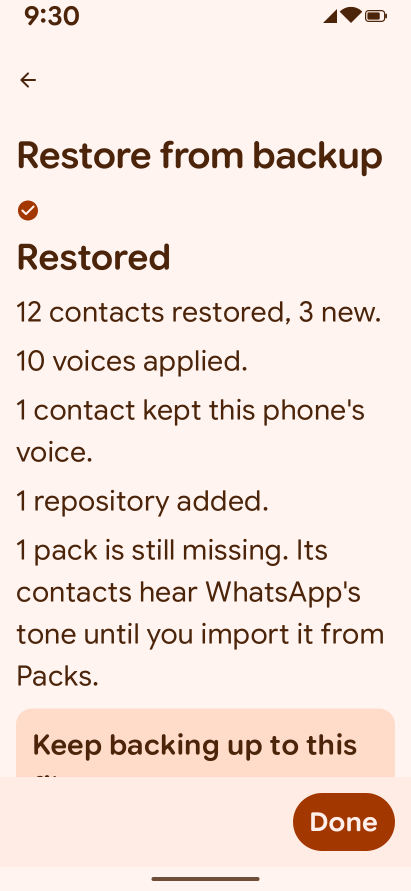
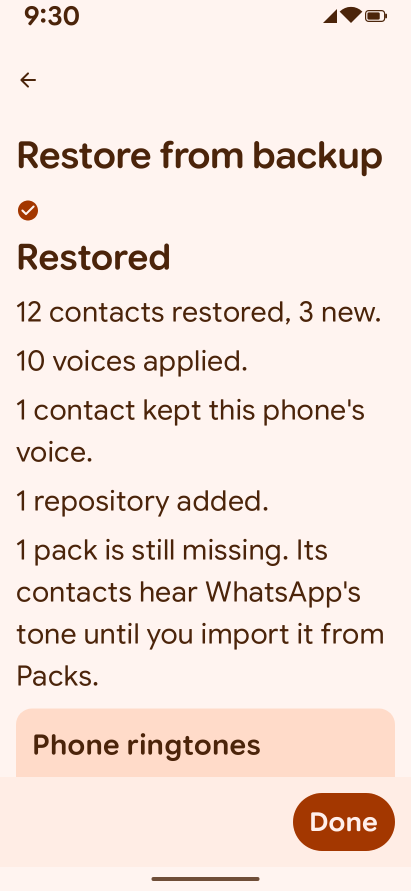
feat(ringtone): ringtone picker screen and phone ringtones in backups
Ringtone picker (#53): album covers of every character with ringtones, a
spinning-record preview per cover and per version, rule chips, mixing a
ringtone character with another message character, saved with the assign
feedback. The contact detail card now shows what rings and opens it.

Backups (#198): phone ringtones are exported (followsVoice, device-local
undo record), restored with the voice rule, matched to this phone's Android
contacts by number, lookup key, then name, and written once phone ringtones
are on. Schema, fixtures, ADR 0057, English and Spanish strings, goldens.

Changed region(s): [[0.0876, 0.8182, 0.8759, 0.8788]]

diff --git a/android/app/src/main/kotlin/app/mauri/cucuto/ui/ringtone/RingtonePickerScreen.kt b/android/app/src/main/kotlin/app/mauri/cucuto/ui/ringtone/RingtonePickerScreen.kt
@@ -85,6 +85,7 @@ import app.mauri.cucuto.ui.feedback.LocalFeedback
 import app.mauri.cucuto.ui.theme.CharacterTheme
 import app.mauri.cucuto.ui.theme.CucutoTheme
 import kotlinx.coroutines.delay
+import java.io.File
 
 /** What the ringtone picker can ask for; [RingtonePickerScreen] wires it to its view model. */
 data class RingtonePickerActions(
@@ -603,7 +604,7 @@ private fun RingtonePickerPreview() {
     }
 }
 
-/** Made-up characters and chat for previews and tests (no files: previews cannot play). */
+/** Made-up characters and chat for previews and tests (the files do not exist: a preview just fails quietly). */
 internal fun previewRingtonePickerState(): RingtonePickerState {
     fun character(
         packId: String,
@@ -615,17 +616,20 @@ internal fun previewRingtonePickerState(): RingtonePickerState {
         RingtoneCharacterItem(
             character("app.mauri.demo.critters", "frog", "Bleep the frog", 0xFF4CAF50),
             listOf(
-                RingtoneVariantItem(RingtoneVariant("frog/ringtones/day.ogg", "Pond song (day)", listOf("day")), null),
+                RingtoneVariantItem(
+                    RingtoneVariant("frog/ringtones/day.ogg", "Pond song (day)", listOf("day")),
+                    File("day.ogg"),
+                ),
                 RingtoneVariantItem(
                     RingtoneVariant("frog/ringtones/night.ogg", "Pond song (night)", listOf("night")),
-                    null,
+                    File("night.ogg"),
                 ),
             ),
         )
     val kettle =
         RingtoneCharacterItem(
             character("app.mauri.demo.kitchen", "kettle", "Tootle the kettle", 0xFFE57373),
-            listOf(RingtoneVariantItem(RingtoneVariant("kettle/ringtones/reel.ogg", "Kettle reel"), null)),
+            listOf(RingtoneVariantItem(RingtoneVariant("kettle/ringtones/reel.ogg", "Kettle reel"), File("reel.ogg"))),
         )
     val key = ChatKey("com.whatsapp", "100000000000003@lid")
     return RingtonePickerState(

diff --git a/android/app/src/main/kotlin/app/mauri/cucuto/ui/ringtone/RecordCover.kt b/android/app/src/main/kotlin/app/mauri/cucuto/ui/ringtone/RecordCover.kt
@@ -70,6 +70,8 @@ fun RecordCover(
         }
     }
     val recordSize = size * RECORD_SCALE
+    // In its sleeve the cover sits in the middle; as the record comes out, the sleeve moves left to make room.
+    val sleeveX = size * ((WIDTH_SCALE - 1f) / 2f) * (1f - pull)
     Box(modifier.size(width = size * WIDTH_SCALE, height = size).clearAndSetSemantics {}) {
         Record(
             character = character,
@@ -77,7 +79,7 @@ fun RecordCover(
             modifier =
                 Modifier
                     .align(Alignment.CenterStart)
-                    .offset(x = (size - recordSize) / 2 + (size * PULL_SCALE) * pull)
+                    .offset(x = sleeveX + (size - recordSize) / 2 + (size * PULL_SCALE) * pull)
                     .size(recordSize)
                     .graphicsLayer { rotationZ = angle.value },
         )
@@ -85,7 +87,7 @@ fun RecordCover(
             shape = RoundedCornerShape(size * CORNER_SCALE),
             color = sleeveColor,
             shadowElevation = 2.dp,
-            modifier = Modifier.align(Alignment.CenterStart).size(size),
+            modifier = Modifier.align(Alignment.CenterStart).offset(x = sleeveX).size(size),
         ) {
             CharacterSprite(
                 character = character,

diff --git a/android/app/src/testDebug/kotlin/app/mauri/cucuto/screenshots/RingtonePickerScreenshotTest.kt b/android/app/src/testDebug/kotlin/app/mauri/cucuto/screenshots/RingtonePickerScreenshotTest.kt
@@ -13,8 +13,9 @@ import org.junit.Test
 import java.io.File
 
 /**
- * The ringtone picker (#53) for Iris, whose voice is Bleep the frog: the frog's pond song rings by day and night, and
- * the kettle's reel is there to mix in. Sprites and ringtone files come from the demo packs.
+ * The ringtone picker (#53) for Iris, whose voice is Bleep the frog (its pond song rings by day and night): the
+ * kettle's reel was just tapped to mix in, so its record is out and "Ring with" saves it. Sprites and ringtone files
+ * come from the demo packs.
  */
 class RingtonePickerScreenshotTest(
     variant: Variant,
@@ -55,6 +56,7 @@ class RingtonePickerScreenshotTest(
                                 RingtonePackItem(kitchen.packId, kitchen.name, listOf(kettle)),
                             ),
                         saved = RingtoneSelection(frog.voice, followsVoice = true, mode = RingtoneMode.TIME),
+                        edited = RingtoneSelection(kettle.voice, followsVoice = false),
                     ),
                 beat = null,
                 actions = RingtonePickerActions(),

diff --git a/docs/decisions/0057-ringtone-picker-and-ringtone-backups.md b/docs/decisions/0057-ringtone-picker-and-ringtone-backups.md
@@ -1,0 +1,140 @@
+# 0057. The ringtone picker, and phone ringtones in backups
+
+- Status: accepted (defaults the owner may override in the `question` issue linked from #53)
+- Date: 2026-10-24
+- Issues: #53 (ringtone picker UI), #198 (back up and restore phone ringtones)
+
+## Context
+
+[ADR 0039](0039-phone-ringtones-on-the-device.md) made phone ringtones work: ring files rendered on the phone, the
+`phone_ringtones` table, the undo record and a "Phone ringtone" card on contact detail with rule chips. It left two
+things out: the picker the brief describes ("a grid or carousel of album covers; tapping one plays it with a
+spinning-record animation, variant chips switch versions") with mixing ("messages from Pikachu, ringtone from K.K.
+Slider"), and backups. The backup schema already had `contacts[].ringtone`, but nothing wrote or restored it.
+
+The owner prefers screens over dialogs ([ADR 0055](0055-screens-over-dialogs.md)). Read: the Material 3
+[chips](https://m3.material.io/components/chips/guidelines) and [lists](https://m3.material.io/components/lists)
+guidelines, `AudioAttributes.USAGE_NOTIFICATION_RINGTONE` (what Android's own ringtone picker plays previews with),
+and `ContactsContract.Contacts.CONTENT_LOOKUP_URI` and `PhoneLookup` for re-matching contacts.
+
+## Decision
+
+### The ringtone picker (#53)
+
+**A screen**, `CucutoDestination.RingtonePicker(chat)`, pushed from the contact detail card. The card no longer holds
+the rule chips. It shows what rings as one row: the album cover, the character, the rule, and whether it is mixed.
+The row opens the picker. Linking, the status, "Use Cucuto's ringtone again", the WhatsApp hint and "Stop using for
+calls" stay on the card. The card also opens the picker when the voice's character has no ringtone, which used to be
+a dead end.
+
+**Layout.** At the top, the chosen character:
+
+- its record and name, and whether it is the messages' character or a mix;
+- every version with a play/stop button and its tags (a radio button picks one under "One version");
+- the rule chips that make sense for its tags (the rules of ADR 0039: the pack's rules, random per call, day and
+  night, by season, one version).
+
+Below it, a grid of album covers, grouped by pack: every installed character that has at least one ringtone. A
+**bottom bar** saves ("Ring with Tootle the kettle"). It reads "Already chosen" and is disabled when nothing changed.
+
+**Game feel**, like the character picker (#132), through the Feedback engine (#112):
+
+- A tap on a cover picks it and plays the version its rule picks now. The record slides out of its sleeve and spins
+  at 45 rpm. A tap on the cover that is playing stops it.
+- Taps play `Feedback.Tap`, and rule and version changes play `SegmentTick`.
+- Saving fires `Feedback.Assign` with the particle burst in the character's colors, then the screen closes after
+  0.9 s. A failure fires `Feedback.Error` and shows a snackbar.
+- The screen takes the selected character's colors (`CharacterTheme`).
+- With animations removed (`LocalReducedMotion`), the record still comes out but does not spin.
+
+**Previews** (`RingtonePreview`) use `MediaPlayer` with ringtone audio attributes, like Android's ringtone picker, so
+they follow the ring volume and the ringer mode. They play the pack's file as it is, stop after 30 s at most (a song
+can last 6 minutes), and stop when the screen stops. The "now" version uses 07:00 to 19:00 for day; the sync uses the
+chosen place (ADR 0037).
+
+**Mixing.** Picking the voice's character stores no character of its own (`packId` null), so the ringtone keeps
+following the voice when the voice changes. That is the brief's "assigning a character assigns both". Any other
+character is stored explicitly: a mix. A contact without a voice can still get a ringtone, if it already exists as a
+contact.
+
+**Rules** keep the current choice when the new character offers it, else the pack's rules. A character with one
+version saves the pack's rule. "Random per call" asks for the phone permission before saving and saves either way,
+as the card did.
+
+### Phone ringtones in backups (#198)
+
+**Schema** (`spec/backup.schema.json`, still `formatVersion` 1; both fields are optional, so older readers ignore
+them):
+
+- `ringtone.followsVoice: true`: the ringtone follows the message character. `packId` and `characterId` still name the
+  voice's character at backup time.
+- `ringtone.undo`: `{ originalRingtone?, writtenUri }`, the Android contact's own ringtone before Cucuto and the file
+  Cucuto wrote last.
+
+The valid fixture gains a contact with both. Two invalid fixtures: a fixed rule without its variant, and an undo
+record without `writtenUri`.
+
+**Export.** One entry per `phone_ringtones` row:
+
+- A row that follows the voice is written with the voice's character and `followsVoice`.
+- A row with neither its own character nor a voice has nothing to ring and is left out.
+- A fixed rule whose variant is unknown becomes the pack's rule, so the backup stays valid.
+- The undo record goes along only while Cucuto's file is on the contact (not changed by the user since).
+- Automatic backups now also watch `phone_ringtones`.
+
+**The undo record in a backup, against #198's "never back up `contact_ringtone_writes`".** The work on #198 also asked
+to keep the original ringtone for undo. It is device-local, so it is used only where it means something: on the same phone after
+a reinstall. There the contact still rings with Cucuto's old file, which no longer counts as Cucuto's own MediaStore
+entry. Without the record, the sync would take that stale file for the "original" and restore it on undo. With it, the
+restore adopts the old record, and the contact gets its real ringtone back later. Everywhere else it is ignored:
+nothing is written unless the contact rings with exactly `writtenUri`, and an existing undo record on this phone is
+never replaced. MediaStore URIs of ring files are never restored as ringtones.
+
+**Restore**, in two steps, because the second needs the contacts permission:
+
+1. `BackupRestorer` (`:core:backup`, inside the restore transaction) writes the rows with the voice rule of ADR 0013:
+   - **applied** when the contact has none on this phone, or the user overwrote the contact (the conflict tick);
+   - **unchanged** when equal;
+   - **kept** otherwise.
+
+   It reports each one, with the old phone's Android contact and the undo record.
+2. `PhoneRingtones.afterRestore` (`:core:ringtone`) finds each Android contact on this phone (`RingtoneRelinker`):
+   1. **phone numbers** first (lookup keys are per device, numbers are not): a current link among the matches is
+      kept; one match wins; several matches are narrowed by the old phone's contact name;
+   2. then the **lookup key**, when it still resolves;
+   3. then the **exact name**, when exactly one contact has it.
+
+   A contact with no match on the new phone is **unlinked**. Contact detail then offers to link it instead of
+   reporting a missing contact, and the ringtone choice stays. When phone ringtones are on, the sync renders the ring
+   files and writes the contacts right away. Without the permission, the list waits in settings (a small JSON list)
+   and finishes when the user turns phone ringtones on, or at the next app start with the permission.
+
+**The restore summary** gets a "Phone ringtones" card:
+
+- how many came back;
+- which contacts are not on this phone (link them from the chat);
+- "Turn on phone ringtones" (the contacts permission, explained first) when they are off;
+- otherwise, how many contacts ring with their character again.
+
+The feature switch itself is not in backups: turning it on needs the permission on the new phone anyway.
+
+## Consequences
+
+- Telecom plays the ring files, as before. No new permission, no new module code, no database migration.
+- `RestoreReport.ringtonesPending` is gone; `ringtones`, `ringtonesApplied` and `ringtonesKept` replace it.
+  `BackupGateway` gains `restorePhoneRingtones` and `enablePhoneRingtones`.
+- Tests:
+  - `RingtonePickerViewModelTest` (selection, mixing, rules, previews, save, failures);
+  - `RingtonePickerContentTest` and the updated `PhoneRingtoneContentTest`;
+  - `RingtoneRelinkerTest` (new phone, same phone, ambiguous and missing contacts, the undo record);
+  - a sync test for an adopted undo record;
+  - `BackupSnapshotRingtoneTest`;
+  - restorer and round-trip cases;
+  - `RestoreViewModelTest` cases.
+- Goldens: `ringtone-picker` (light, dark, large font in English and Spanish) and the large-font restore summary.
+- Defaults the owner may change:
+  - the undo record travels in backups;
+  - picking the voice's character means "follow the voice";
+  - a ringtone set on the new phone is kept unless the contact's voice conflict is overwritten;
+  - previews stop after 30 s;
+  - an unmatched contact is unlinked rather than left with a stale link.

diff --git a/docs/decisions/0039-phone-ringtones-on-the-device.md b/docs/decisions/0039-phone-ringtones-on-the-device.md
@@ -88,7 +88,8 @@ how every change can be undone.
      and that the code is open source at github.com/mauriciabad/cucuto (the owner, #145).
    - `READ_PHONE_STATE` is asked only when the user picks "Random per call".
    - Denial leaves everything as it was and offers Android's app settings.
-8. **UI** (the full picker is #53):
+8. **UI** (the full picker is #53; it landed in [ADR 0057](0057-ringtone-picker-and-ringtone-backups.md), which moved
+   the rule chips from the card into it):
    - A "Phone ringtone" card on contact detail (1:1 chats only). It offers: turn the feature on, link the Android
      contact (suggested by the WhatsApp phone JID's number, else by exact name, or picked with the system contact
      picker), the rule chips that make sense for the character's variant tags, version chips for "One version", the
@@ -97,7 +98,7 @@ how every change can be undone.
    - A switch in Settings.
 9. **Not in this change:**
    - `vibration_uri` per-contact call vibration waits for #143 V2 (whether `system_server` can read our file).
-   - Backup and restore of phone ringtones (#198): the restorer already counts them as pending.
+   - Backup and restore of phone ringtones (#198): the restorer already counts them as pending (done in ADR 0057).
 
 ## Consequences
 

diff --git a/docs/project-brief.md b/docs/project-brief.md
@@ -590,7 +590,7 @@ A throwaway module plus a debug screen, run on the owner's phone.
 - [x] Spike first: confirm Telecom's ringer hook point and scope for random-per-call, and find out how WhatsApp plays its call ringtone (static phase: [M9 report](m9-report.md), ADR 0023; device run pending).
 - [ ] `ringtones` in the pack schema, loop points, variants with `when` conditions; packer and creator support including auto-cut notification clips.
 - [ ] Phone ringtones through `CUSTOM_RINGTONE` with MediaStore export; rule-based variants rewritten at boundaries.
-- [ ] Album-cover ringtone picker with preview and variant chips; contact linking by phone number.
+- [x] Album-cover ringtone picker with preview and variant chips; contact linking by phone number ([ADR 0057](decisions/0057-ringtone-picker-and-ringtone-backups.md)).
 - [ ] Automatic WhatsApp call ringtones through an optional, opt-in WhatsApp scope (owner, #145; ADR 0051; spike #215: static phase in the [WhatsApp ringtone spike](whatsapp-ringtone-spike.md), ADR 0052; device run #228), compatible with WaEnhancer X. Without the scope, the guided per-chat ringtone.
 - [ ] The owner's K.K. Slider pack assigned to several contacts, with day and night variants switching correctly.
 
